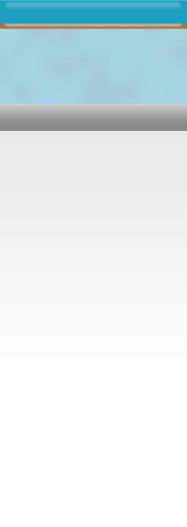
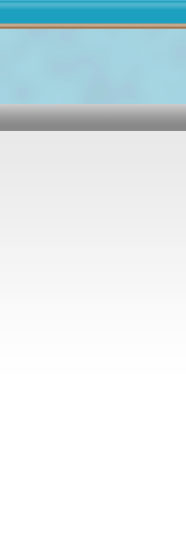
colors and graphics
git-svn-id: https://cbilsvn.pmacs.upenn.edu/svn/apidb/ApiCommonWebsite/trunk@39984 735e2a04-f8fc-0310-8a1b-f2942603c481

Changed region(s): [[0.0, 0.1822, 1.0, 0.2732], [0.0, 0.0, 1.0, 0.0607]]

diff --git a/Site/htdocs/assets/css/PiroplasmaDB.css b/Site/htdocs/assets/css/PiroplasmaDB.css
@@ -1,3 +1,7 @@
+@variables {
+  TextColor: yellow;
+}
+
 
 /* ~~~~~~~~~~~~~~~~~~~~~~~~~~~~~~~~~~~~~~~~~~~~~~~~~~~~~~~~~~~~~~~~~~~~
 	 =TAGS 
@@ -8,15 +12,15 @@ body {
 }
 
 .coloredtext {         /* no link */
-	color: #6f4230;
+	color: #9a5b37;     //  #6f4230;   
 }
 
 a:link, a:visited {
-	color: #316e9f;
+	color: #316e9f; 
 }
 
 a:hover, a:active {
-	color: #6f4230;
+	color: #9a5b37;   // #6f4230;
 }
 
 /*~~~~~~~~~~~~~~~~~~~~~~~~~~~~~~~~~~~~~~~~~~~~~~~~~~~~~~~~~~~~~~~~~~~~~~
@@ -33,32 +37,32 @@ a:hover, a:active {
 
 
 #header_rt {
-   color: #6f4230;
+   color: #9a5b37;   //#6f4230;
 }
 
 #header_rt a:link, #header_rt a:visited {
-   color: #6f4230;
+   color: #9a5b37;   //#6f4230;
 }
 
 /*~~~~~~~~~~~~~~~~~~~~~~~~~~~~~~~~~~~~~~~~~~~~~~~~~~~~~~~~~~~~~~~~~~~~~~
 	 =HEADER DROPDOWN MENU
 ~~~~~~~~~~~~~~~~~~~~~~~~~~~~~~~~~~~~~~~~~~~~~~~~~~~~~~~~~~~~~~~~~~~~~~~*/	
 #nav_top {
-	color: #6f4230;
+	color: #9a5b37;   //#6f4230;
 }
 
 #nav_top a:link, #nav_top a:visited {
-	color: #6f4230;
+	color: #9a5b37; //#6f4230;
 }
 
 #nav_top li ul {  /* second-level lists */
 	background-image: url(../images/PiroplasmaDB/footer.png);
-	border-color:#6f4230;
+	border-color:#9a5b37; // #6f4230;
 	list-style-image: url(../images/PiroplasmaDB/bullet_arrow.gif);
 }
 
 #nav_top li ul a:link, #nav_top li ul a:visited {
-	color: #6f4230;
+	color: #9a5b37;  //#6f4230;
 }
 
 #nav_top li ul a:hover, #nav_top li ul a:active {
@@ -68,24 +72,19 @@ a:hover, a:active {
 /*~~~~~~~~~~~~~~~~~~~~~~~~~~~~~~~~~~~~~~~~~~~~~~~~~~~~~~~~~~~~~~~~~~~~~~
 	 =STRUCTURE 
 ~~~~~~~~~~~~~~~~~~~~~~~~~~~~~~~~~~~~~~~~~~~~~~~~~~~~~~~~~~~~~~~~~~~~~~~*/	
-/* #menubar #mysearch {
-	background-image: url(../images/PiroplasmaDB/my_hist_menubar.png);
-	border: 1px solid #831639;
-} */
- 
 #contentcolumn {
 	background-image: url(../images/PiroplasmaDB/footer.png);
-	border: 1px solid #20691a;
+	border: 1px solid #9a5b37;  //#20691a;
 }
 
 #contentcolumn2 {
 	background-image: url(../images/PiroplasmaDB/footer.png);
-	border: 1px solid #20691a;
+	border: 1px solid #9a5b37;  //#20691a;
 }
 
 #mysearchhist {
 	background-image: url(../images/PiroplasmaDB/bubble_my_searchbox.png);
-	border: 1px solid #20691a;
+	border: 1px solid #9a5b37;  //#20691a;
 }
 
 
@@ -98,10 +97,6 @@ a:hover, a:active {
 	list-style-image: url(../images/PiroplasmaDB/bullet_arrow.gif);
 }
 
-#pink_title {
-	color: #5e0f28;
-	background-image: url(../images/PiroplasmaDB/trheader.png);
-}
 
 /*~~~~~~~~~~~~~~~~~~~~~~~~~~~~~~~~~~~~~~~~~~~~~~~~~~~~~~~~~~~~~~~~~~~~~
 	 =Top Menu Bar Dropdown List
@@ -109,22 +104,22 @@ a:hover, a:active {
 ~~~~~~~~~~~~~~~~~~~~~~~~~~~~~~~~~~~~~~~~~~~~~~~~~~~~~~~~~~~~~~~~~~~~~~*/
 
 #menu a:hover, #menu a:active, span#stratTitle, #strategy_tabs #selected a {
-	color:#560000;
+	color: #9a5b37;    //#560000;
 }
 #menu ul ul a:link, #menu ul ul a:visited{
-	border-bottom-color: #3c8935;
+	border-bottom-color:  #9a5b37; //#3c8935;
 }
 
 #menu ul ul a:hover, #menu ul ul a:active{
-	border-bottom-color: #3c8935;
-	color: #b30101;
+	border-bottom-color:  #9a5b37; //#3c8935;
+	color: #316e9f;   //#b30101;
 }
 
 /*~~~~~~~~~~~~~~~~~~~~~~~~~~~~~~~~~~~~~~~~~~~~~~~~~~~~~~~~~~~~~~~~~~~~~
 	 =Menu Lists
 ~~~~~~~~~~~~~~~~~~~~~~~~~~~~~~~~~~~~~~~~~~~~~~~~~~~~~~~~~~~~~~~~~~~~~~*/
 .menu_lefttop_drop {
-   border-color: #20691A;  /* color as in contentcolumn border */
+   border-color:  #9a5b37;  //#20691A;  /* color as in contentcolumn border */
 }
 
 #menu_lefttop a.heading {
@@ -136,7 +131,7 @@ a:hover, a:active {
 ~~~~~~~~~~~~~~~~~~~~~~~~~~~~~~~~~~~~~~~~~~~~~~~~~~~~~~~~~~~~~~~~~~~~~~*/
 
 .search-box{
-   border: solid 1px #1c7c12;
+   border: solid 1px #9a5b37;  //#1c7c12;
 } 
 
 .search-box .textbox{
@@ -148,21 +143,21 @@ a:hover, a:active {
 ~~~~~~~~~~~~~~~~~~~~~~~~~~~~~~~~~~~~~~~~~~~~~~~~~~~~~~~~~~~~~~~~~~~~~~*/
 
 h1 {
-	color: #20691a;
+	color: #9a5b37;  //#20691a;
 }
 h2 {
-  	color: #20691a;
+  	color: #9a5b37; //#20691a;
 }
 
 .h2center, .h3left,.h3center, .h4left {
-  	color: #3c8935;
+  	color: #9a5b37; //#3c8935;
 }
 
-
+/* not in use, remove in a few cycles
 .subcolor {
 	color: #714782
 }
-
+*/
 
 
 /*~~~~~~~~~~~~~~~~~~~~~~~~~~~~~~~~~~~~~~~~~~~~~~~~~~~~~~~~~~~~~~~~~~~~
@@ -179,14 +174,14 @@ h2 {
 ~~~~~~~~~~~~~~~~~~~~~~~~~~~~~~~~~~~~~~~~~~~~~~~~~~~~~~~~~~~~~~~~~~~~*/
 
 td.headerrow {
-	color: #5e0f28;
+	color: #0c3f60;
 	background-image: url(../images/PiroplasmaDB/trheader.png);
 	background-repeat: repeat-x;
 }
 
 
 tr.headerrow {
-	color: #5e0f28;
+	color: #0c3f60;
 }
 
 tr.headerrow th, .flexigrid tr.headerrow th#primary_key:hover {
@@ -211,7 +206,7 @@ tr.subheaderrow th {
 ~~~~~~~~~~~~~~~~~~~~~~~~~~~~~~~~~~*/
 
 tr.headerrow2 td{
-        color: #5e0f28;
+        color: #0c3f60;
 	background-image: url(../images/PiroplasmaDB/trheader.png);
 }
 
@@ -223,7 +218,7 @@ a.queryGridInactive {
         color:              #C8C8C8;
 }
 a.queryGridActive {
-        color:              #772841;
+        color:              #0c3f60;
 }
 
 
@@ -233,11 +228,11 @@ a.queryGridActive {
 ~~~~~~~~~~~~~~~~~~~~~~~~~~~~~~~~~~~~~~~*/
 
 tr.subheaderrow th {
-	border-color: #772841;
+	border-color: #0c3f60;
 }
 
 tr.headerrow th { 
-	border-color: #772841;
+	border-color: #0c3f60;
 }
 
 /*~~~~~~~~~~~~~~~~~~~~~~~~~~~~~~~~~~~~~~~~~~~~~~~~~~~~~~~~~~~~~~~~~~~~
@@ -253,7 +248,7 @@ tr.headerrow th {
 
 
 /*~~~~~~~~~~~~~~~~~~~~~~~~~~~~~~~~~~~~~~~~~~~~~~~~~~~~~~~~~~~~~~~~~~~~
-	 =ABOUT US and HELP PAGES SIDEBAR
+	 =ABOUT US and HELP PAGES SIDEBAR  I think it is unused
 ~~~~~~~~~~~~~~~~~~~~~~~~~~~~~~~~~~~~~~~~~~~~~~~~~~~~~~~~~~~~~~~~~~~~*/
 
 .twoColHybLt #sidebar1 {
